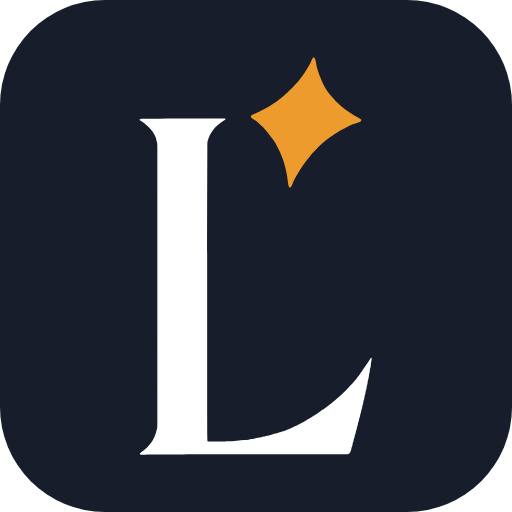
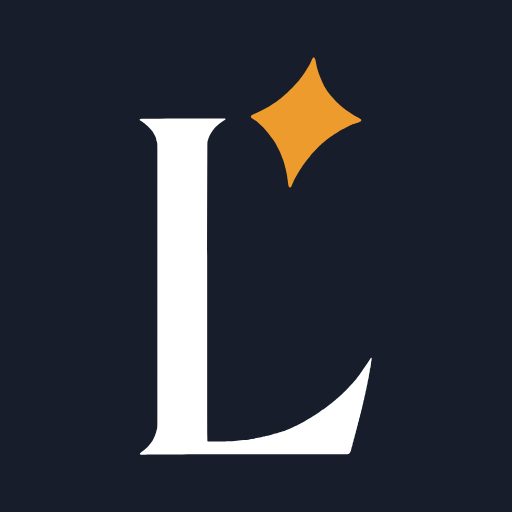
Icône de l'onglet : carré bleu nuit plein, sans coins transparents (#210)
Solal (24/11/2026) : l'icône apparaissait entourée de blanc dans l'onglet.
Le navigateur remplissait de blanc les coins arrondis transparents.

Claude-Session: https://claude.ai/code/session_01LhxbKkMrV8Ec8KLCwVu2yF

diff --git a/lib/admin/map.ts b/lib/admin/map.ts
@@ -293,7 +293,7 @@ export const MAP_GROUPS: MapGroup[] = [
             { id: 'm-session', label: 'Session de 30 jours', kind: 'end', d: 'Changer le mot de passe déconnecte tout le monde.' },
             { id: 'm-habillage', label: 'Habillage et colonne', d: 'Depuis le 24/11/2026 (Solal : « classe, épuré, new gen », sur le modèle de la plateforme L’Étincelle) : l’admin a son propre habillage, sombre par défaut (bouton « Clair ou sombre » en bas de la colonne, choix gardé un an). Une colonne sur toute la hauteur : logo, recherche d’un client par nom ou numéro (raccourci ⌘K), rubriques, état du serveur vocal. Police Geist, bords d’un pixel, petits arrondis, l’ambre réservé aux données et au bouton principal. Le site et l’espace auteur ne changent pas. Les pastilles à initiale à côté du nom des clients ont été retirées le même jour (Solal : « ça sert à rien »).', code: 'app/admin/admin.css, app/admin/layout.tsx, components/admin/AdminNav.tsx, components/admin/ui.tsx' },
             { id: 'm-agenda', label: 'Appels de la semaine', d: 'Depuis le 24/11/2026, sur Aujourd’hui : les rendez-vous réglés par les auteurs du lundi au dimanche (heure de Paris), avec ce que chaque appel a donné : fait et sa durée, manqué, à venir, premier appel. Hors tests et livres terminés.', code: 'lib/admin/data.ts (getAgenda)' },
-            { id: 'm-favicon', label: 'Icône de l’onglet', d: 'Depuis le 24/11/2026 (choix de Solal entre étoile dorée et étoile blanche : la dorée) : le monogramme L blanc sur un carré bleu nuit, avec l’étoile dorée. C’est la petite image de l’onglet du navigateur, des favoris et de l’écran d’accueil du téléphone. Tirée du tracé du vrai logo, sans le redessiner.', code: 'app/icon.png, app/apple-icon.png' },
+            { id: 'm-favicon', label: 'Icône de l’onglet', d: 'Depuis le 24/11/2026 (choix de Solal entre étoile dorée et étoile blanche : la dorée) : le monogramme L blanc sur un carré bleu nuit plein (sans coins transparents : certains navigateurs y mettaient du blanc), avec l’étoile dorée. C’est la petite image de l’onglet du navigateur, des favoris et de l’écran d’accueil du téléphone. Tirée du tracé du vrai logo, sans le redessiner.', code: 'app/icon.png, app/apple-icon.png' },
             { id: 'm-vitesse', label: 'Vitesse de l’admin', d: 'Depuis le 24/11/2026 (Solal : « la page admin est très lente »). Les chiffres lus chez les fournisseurs sont gardés quelques minutes au lieu d’être redemandés à chaque page : dépenses et recettes (Twilio, OpenAI, Stripe) dix minutes, Google Analytics et Search Console trente minutes, état du serveur vocal trente secondes, coût des appels d’un client dix minutes (recalculé dès qu’un appel ou une écoute arrive). Le bouton « Actualiser » de la barre du haut relit tout à l’instant. La base, elle, est toujours lue en direct. Sur Aujourd’hui, la marge et les visiteurs arrivent à part, sans retenir la page. Sur la fiche d’un client, seul l’onglet ouvert est calculé, et le son d’un appel ne se charge qu’au clic sur lecture. Le site tourne désormais à Paris (cdg1), à côté de la base, et non plus à Washington : chaque lecture de la base est plus courte, sur tout le site. Les photos sortent en AVIF quand le navigateur le lit.', code: 'lib/admin/cached.ts, app/api/admin/rafraichir, app/admin/loading.tsx, vercel.json, next.config.ts' },
             { id: 'm-vue', label: 'Aujourd’hui', d: 'La page d’accueil de l’admin. Depuis l’audit du 20/11/2026, une seule liste « À faire », la plus urgente en haut : serveur vocal coupé, appel en échec, nouvelle commande, livre à relire, imprimer ou expédier, message de contact (boutons Répondre et Traité), réglage manquant sur Vercel dit en clair avec la marche à suivre. Puis « Cette semaine » : commandes, appels, marge du mois, visiteurs, chacun mène à sa rubrique. Rubriques : Piloter (Aujourd’hui, Clients, Livres, Démos), Chiffres (Argent, Audience), Outils (Mails, Technique). Sur téléphone, un bouton « Rubriques » déplie le menu au lieu d’une rangée de dix onglets qui débordait.', code: 'app/admin/page.tsx' },
             { id: 'm-clients', label: 'Clients', gap: 2, d: 'Depuis le 20/11/2026, « Suivi client » et « Clients » ne font qu’une page (l’ancienne adresse /admin/suivi y mène) : les quatre chiffres, les clients à relancer, la liste avec ses onglets Tous, À relancer, Actifs, Terminés, Tests, puis le parcours et les moyennes. Les clients de test sont rangés dans leur onglet et ne comptent nulle part.', code: 'app/admin/clients/page.tsx' },
